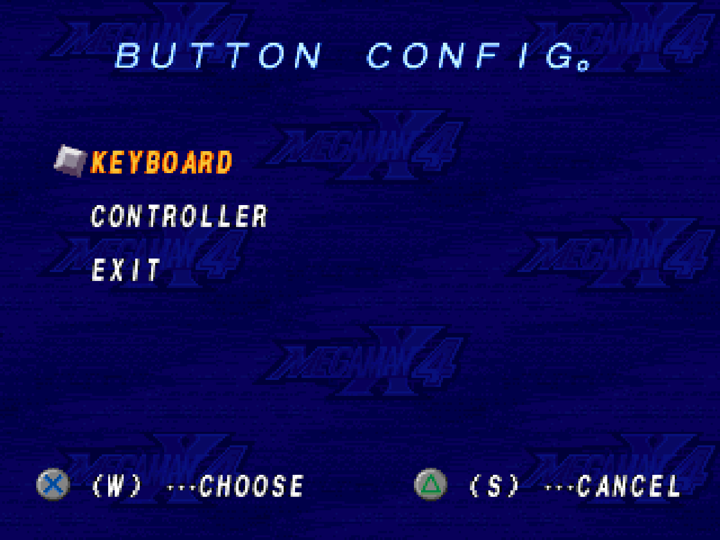
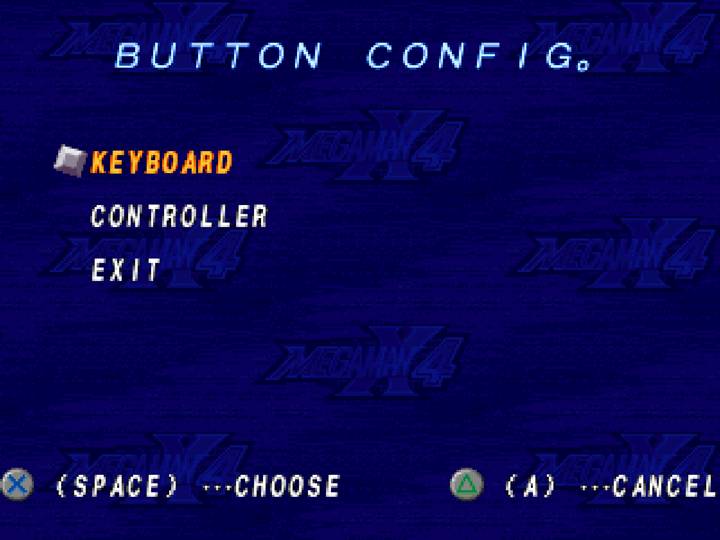
Fit long key names in X4's button prompts
A key like SPACE made the footer row overflow the sprite's signed-byte
offsets, so the plugin fell back to Capcom's prompt. Close the gap
between prompts to 8 pixels when 16 is not enough and slide the centred
row back inside the offsets.

Changed region(s): [[0.0, 0.8593, 0.4889, 0.9481], [0.55, 0.8593, 1.0, 0.9481]]

diff --git a/src/mods/mmx4_prompt_keys.c b/src/mods/mmx4_prompt_keys.c
@@ -150,38 +150,61 @@ static Span row_span(const Rec* a, int n, const Rec* b, int m, int dy) {
     return s;
 }
 
-/* A widened row closes gaps wider than 16 pixels (Capcom spaces its two
- * prompts far apart), then centres on where it stood. 0 if it cannot fit the
- * signed-byte offsets. */
-static int fit_row(Rec* a, int n, Rec* b, int m, int dy, Span before) {
-    for (;;) {
-        int gap_at = 1 << 20, gap = 0;
-        for (int k = 0; k < n + m; ++k) {
-            const Rec* r = k < n ? &a[k] : &b[k - n];
-            if (r->dy != dy) continue;
-            int prev_end = -(1 << 20);
-            for (int j = 0; j < n + m; ++j) {
-                const Rec* q = j < n ? &a[j] : &b[j - n];
-                if (q->dy == dy && q->dx < r->dx && q->dx + width_of(q) > prev_end) prev_end = q->dx + width_of(q);
-            }
-            if (prev_end > -(1 << 20) && r->dx - prev_end > 16 && r->dx < gap_at) { gap_at = r->dx; gap = r->dx - prev_end - 16; }
-        }
-        const Span now = row_span(a, n, b, m, dy);
-        if (now.lo >= -128 && now.hi <= 127 + 8) break;
-        if (!gap) return 0;
-        for (int k = 0; k < n + m; ++k) {
-            Rec* r = k < n ? &a[k] : &b[k - n];
-            if (r->dy == dy && r->dx >= gap_at) r->dx -= gap;
-        }
+/* Lowest and highest record offset on the row (not its pixel extent). */
+static Span row_offsets(const Rec* a, int n, const Rec* b, int m, int dy) {
+    Span s = {1 << 20, -(1 << 20)};
+    for (int k = 0; k < n + m; ++k) {
+        const Rec* r = k < n ? &a[k] : &b[k - n];
+        if (r->dy != dy) continue;
+        if (r->dx < s.lo) s.lo = r->dx;
+        if (r->dx > s.hi) s.hi = r->dx;
     }
-    const Span now = row_span(a, n, b, m, dy);
-    const int move = (before.lo + before.hi) / 2 - (now.lo + now.hi) / 2;
+    return s;
+}
+
+static void shift_row(Rec* a, int n, Rec* b, int m, int dy, int from, int by) {
     for (int k = 0; k < n + m; ++k) {
         Rec* r = k < n ? &a[k] : &b[k - n];
-        if (r->dy == dy) r->dx += move;
+        if (r->dy == dy && r->dx >= from) r->dx += by;
     }
-    const Span placed = row_span(a, n, b, m, dy);
-    return placed.lo >= -128 && placed.hi <= 127 + 8;
+}
+
+/* Closes the leftmost gap wider than keep pixels down to keep. 0 if none. */
+static int close_gap(Rec* a, int n, Rec* b, int m, int dy, int keep) {
+    int gap_at = 1 << 20, gap = 0;
+    for (int k = 0; k < n + m; ++k) {
+        const Rec* r = k < n ? &a[k] : &b[k - n];
+        if (r->dy != dy) continue;
+        int prev_end = -(1 << 20);
+        for (int j = 0; j < n + m; ++j) {
+            const Rec* q = j < n ? &a[j] : &b[j - n];
+            if (q->dy == dy && q->dx < r->dx && q->dx + width_of(q) > prev_end) prev_end = q->dx + width_of(q);
+        }
+        if (prev_end > -(1 << 20) && r->dx - prev_end > keep && r->dx < gap_at) {
+            gap_at = r->dx;
+            gap = r->dx - prev_end - keep;
+        }
+    }
+    if (gap) shift_row(a, n, b, m, dy, gap_at, -gap);
+    return gap;
+}
+
+/* A widened row closes gaps wider than 16 pixels (Capcom spaces its two
+ * prompts far apart), then 8 if a long key name still overflows, centres on
+ * where it stood and slides back inside the signed-byte offsets. 0 if it
+ * cannot fit them. */
+static int fit_row(Rec* a, int n, Rec* b, int m, int dy, Span before) {
+    static const int kKeep[2] = {16, 8};
+    for (int pass = 0; pass < 2; ++pass)
+        while (row_offsets(a, n, b, m, dy).hi - row_offsets(a, n, b, m, dy).lo > 255 &&
+               close_gap(a, n, b, m, dy, kKeep[pass])) {}
+    const Span now = row_span(a, n, b, m, dy);
+    shift_row(a, n, b, m, dy, -(1 << 20), (before.lo + before.hi) / 2 - (now.lo + now.hi) / 2);
+    const Span at = row_offsets(a, n, b, m, dy);
+    if (at.lo < -128) shift_row(a, n, b, m, dy, -(1 << 20), -128 - at.lo);
+    else if (at.hi > 127) shift_row(a, n, b, m, dy, -(1 << 20), 127 - at.hi);
+    const Span placed = row_offsets(a, n, b, m, dy);
+    return placed.lo >= -128 && placed.hi <= 127;
 }
 
 static void write_recs(uint32_t at, const Rec* r, int n) {

diff --git a/README.md b/README.md
@@ -34,15 +34,17 @@ What I added:
 | Change | Where |
 | --- | --- |
 | **OPTION → BUTTON CONFIG** opens a Controls page drawn in X4's own font, cursor, backdrop and menu sounds. Pick **KEYBOARD** or **CONTROLLER**, highlight an action, press the new key or button. A clash swaps the two keys; a host hotkey (F10, F7, ...) asks for a second press. Changes save to `keybinds.ini` / `input.ini` and apply in game right away. | `src/mods/mmx4_controls.c`, recomp-ui `psx_controls_page*.cpp` |
-| Capcom's button prompts name your key: `✕ (W) ···CHOOSE  △ (S) ···CANCEL`. | `src/mods/mmx4_prompt_keys.c` |
+| Capcom's button prompts name your key: `✕ (SPACE) ···CHOOSE  △ (A) ···CANCEL` on OPTION, CONTINUE, BUTTON CONFIG and the other menus with that footer. Long names (`LEFT SHIFT` → `LSHIFT`) are shortened; a row that still cannot fit keeps Capcom's prompt. | `src/mods/mmx4_prompt_keys.c` |
 | Framework hooks: `psx_mod_read_vram` / `psx_mod_write_vram`, and keep presenting while an overlay is open. | psxrecomp `runtime/` |
 
 Both are features of the **X4 Controls** mod (`mods/preloaded/packages/mmx4.enhancement.controls`).
 
 <p align="center">
-  <img src="docs/images/controls_option.png" width="32%" alt="OPTION menu with key names in the prompts">
-  <img src="docs/images/controls_chooser.png" width="32%" alt="BUTTON CONFIG chooser: Keyboard, Controller, Exit">
-  <img src="docs/images/controls_keyboard.png" width="32%" alt="Keyboard config listing each action and its key">
+  <img src="docs/images/controls_option.png" width="48%" alt="OPTION menu with key names in the prompts">
+  <img src="docs/images/controls_continue.png" width="48%" alt="CONTINUE screen with key names in the prompts">
+  <br>
+  <img src="docs/images/controls_chooser.png" width="48%" alt="BUTTON CONFIG chooser: Keyboard, Controller, Exit">
+  <img src="docs/images/controls_keyboard.png" width="48%" alt="Keyboard config listing each action and its key">
 </p>
 
 **Platforms:** built and played on macOS Apple Silicon (arm64, SDL3, OpenGL).
